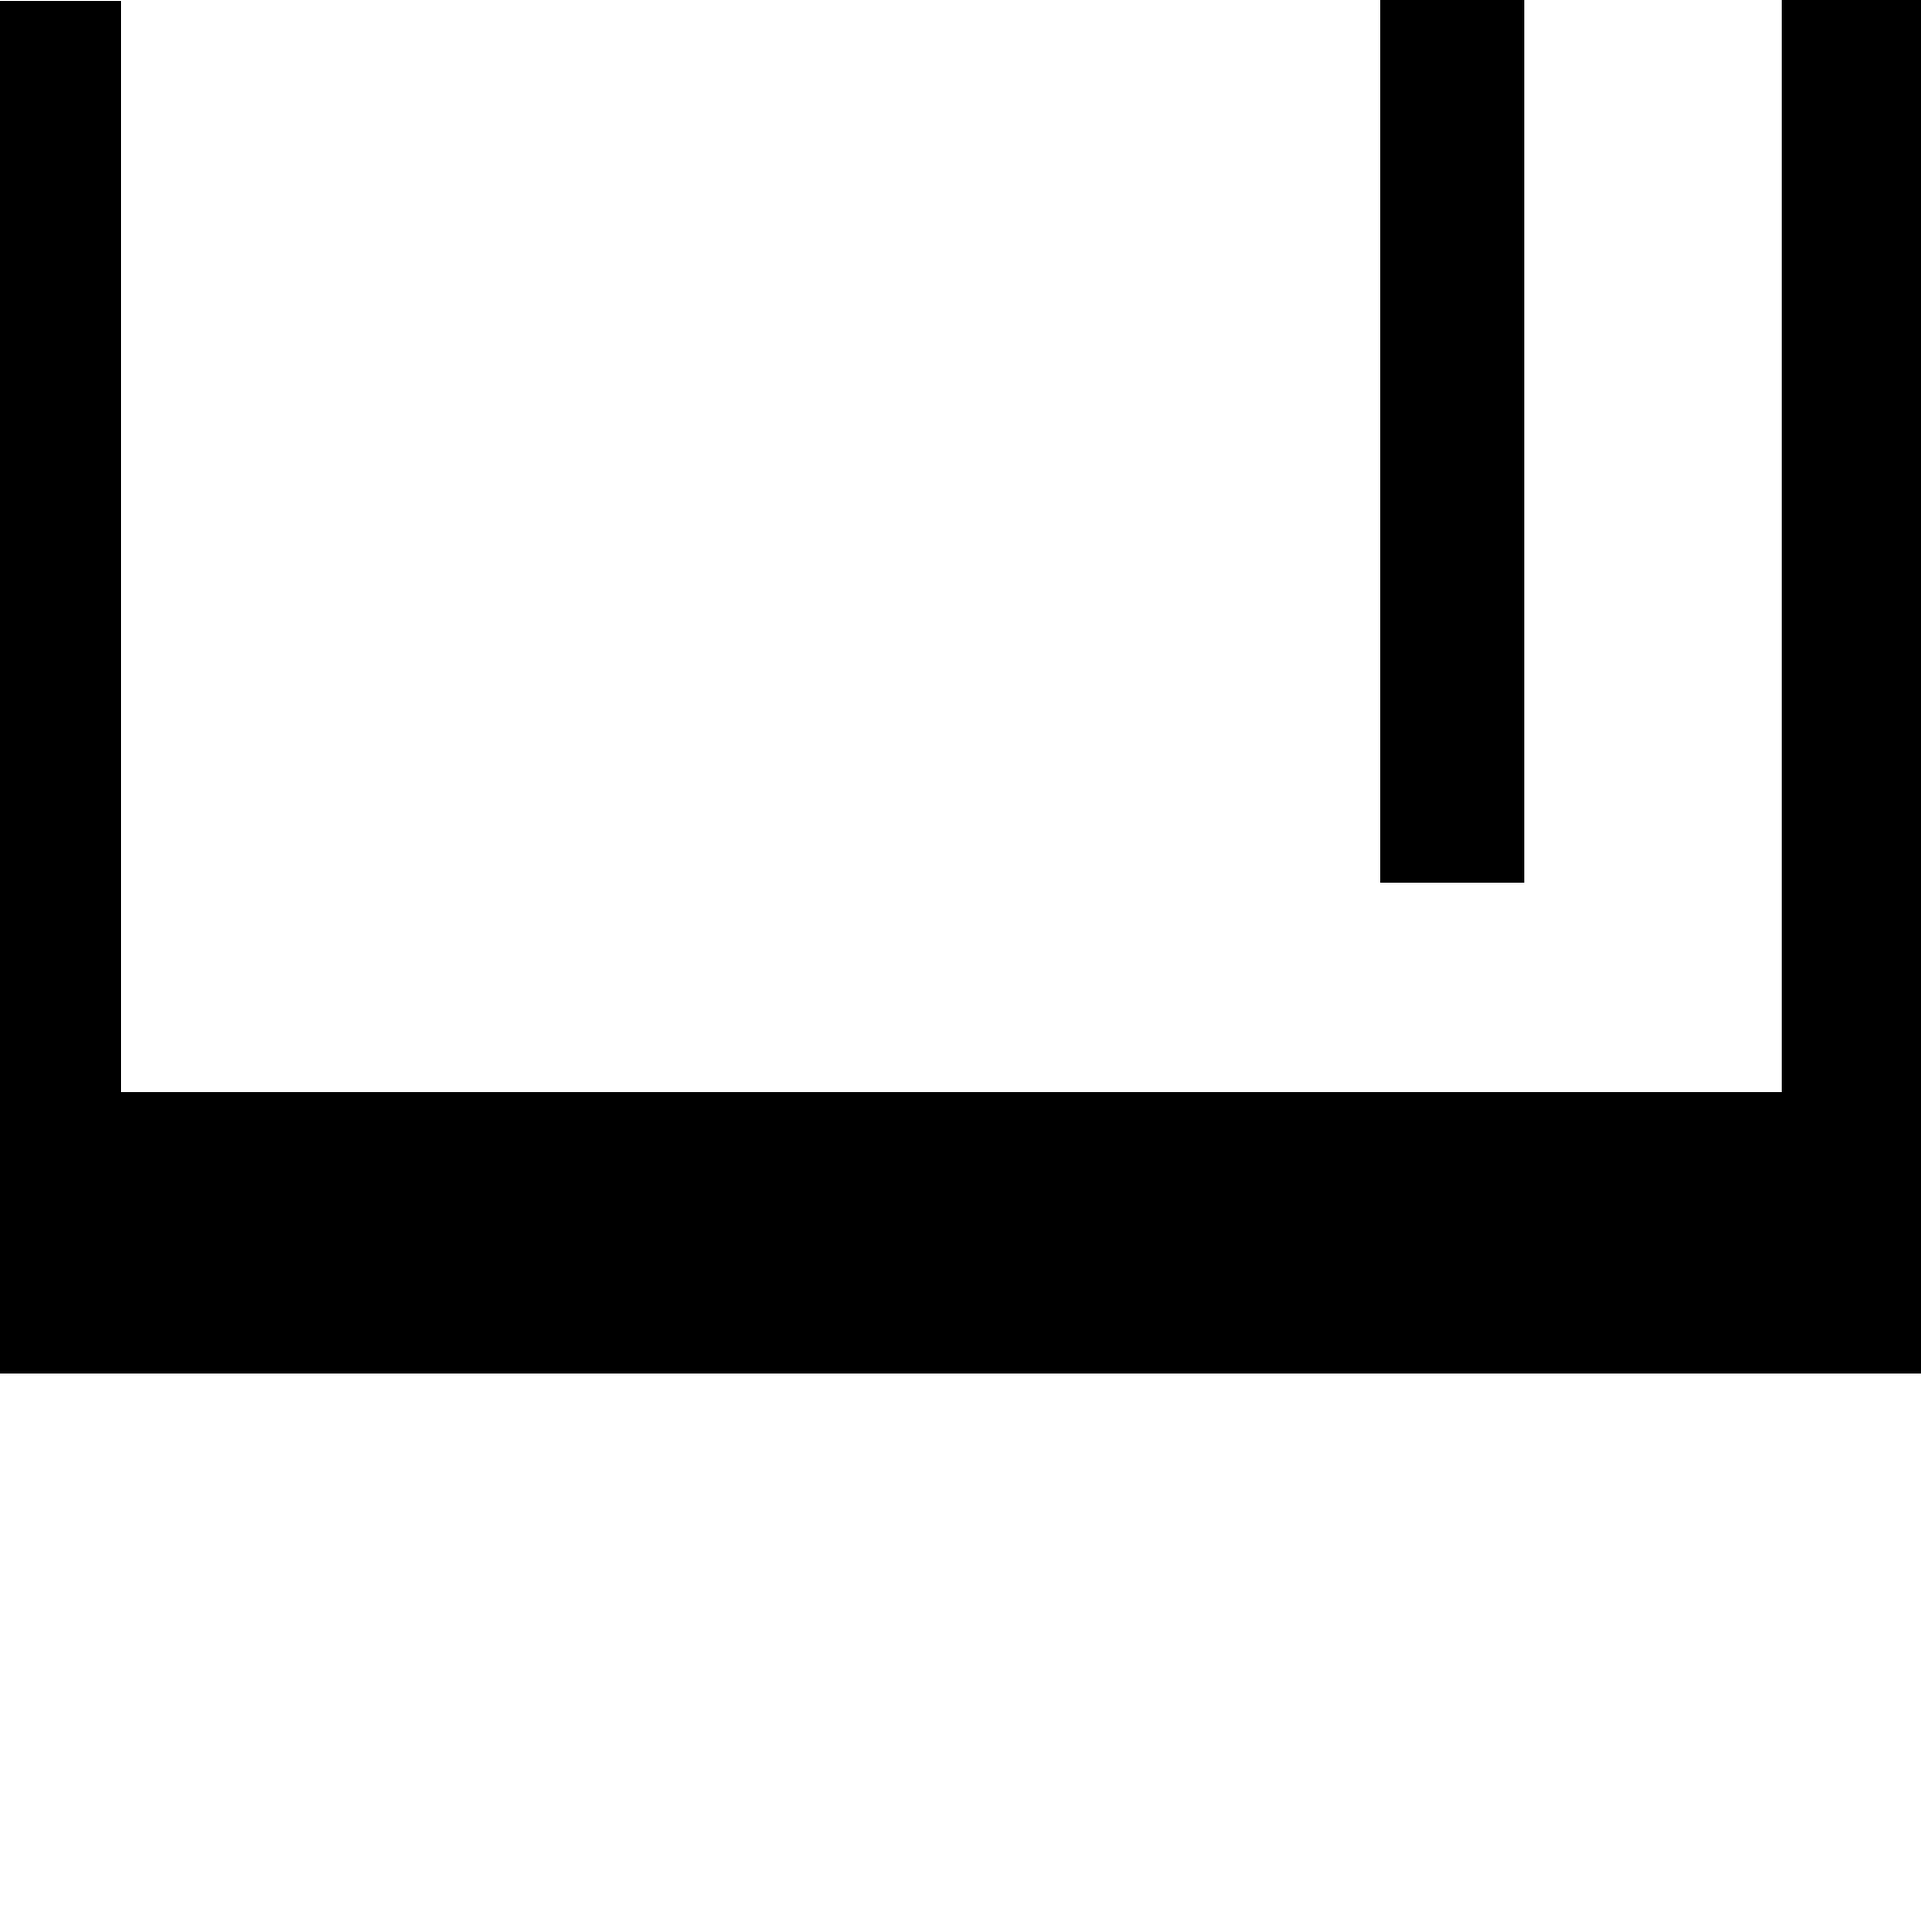
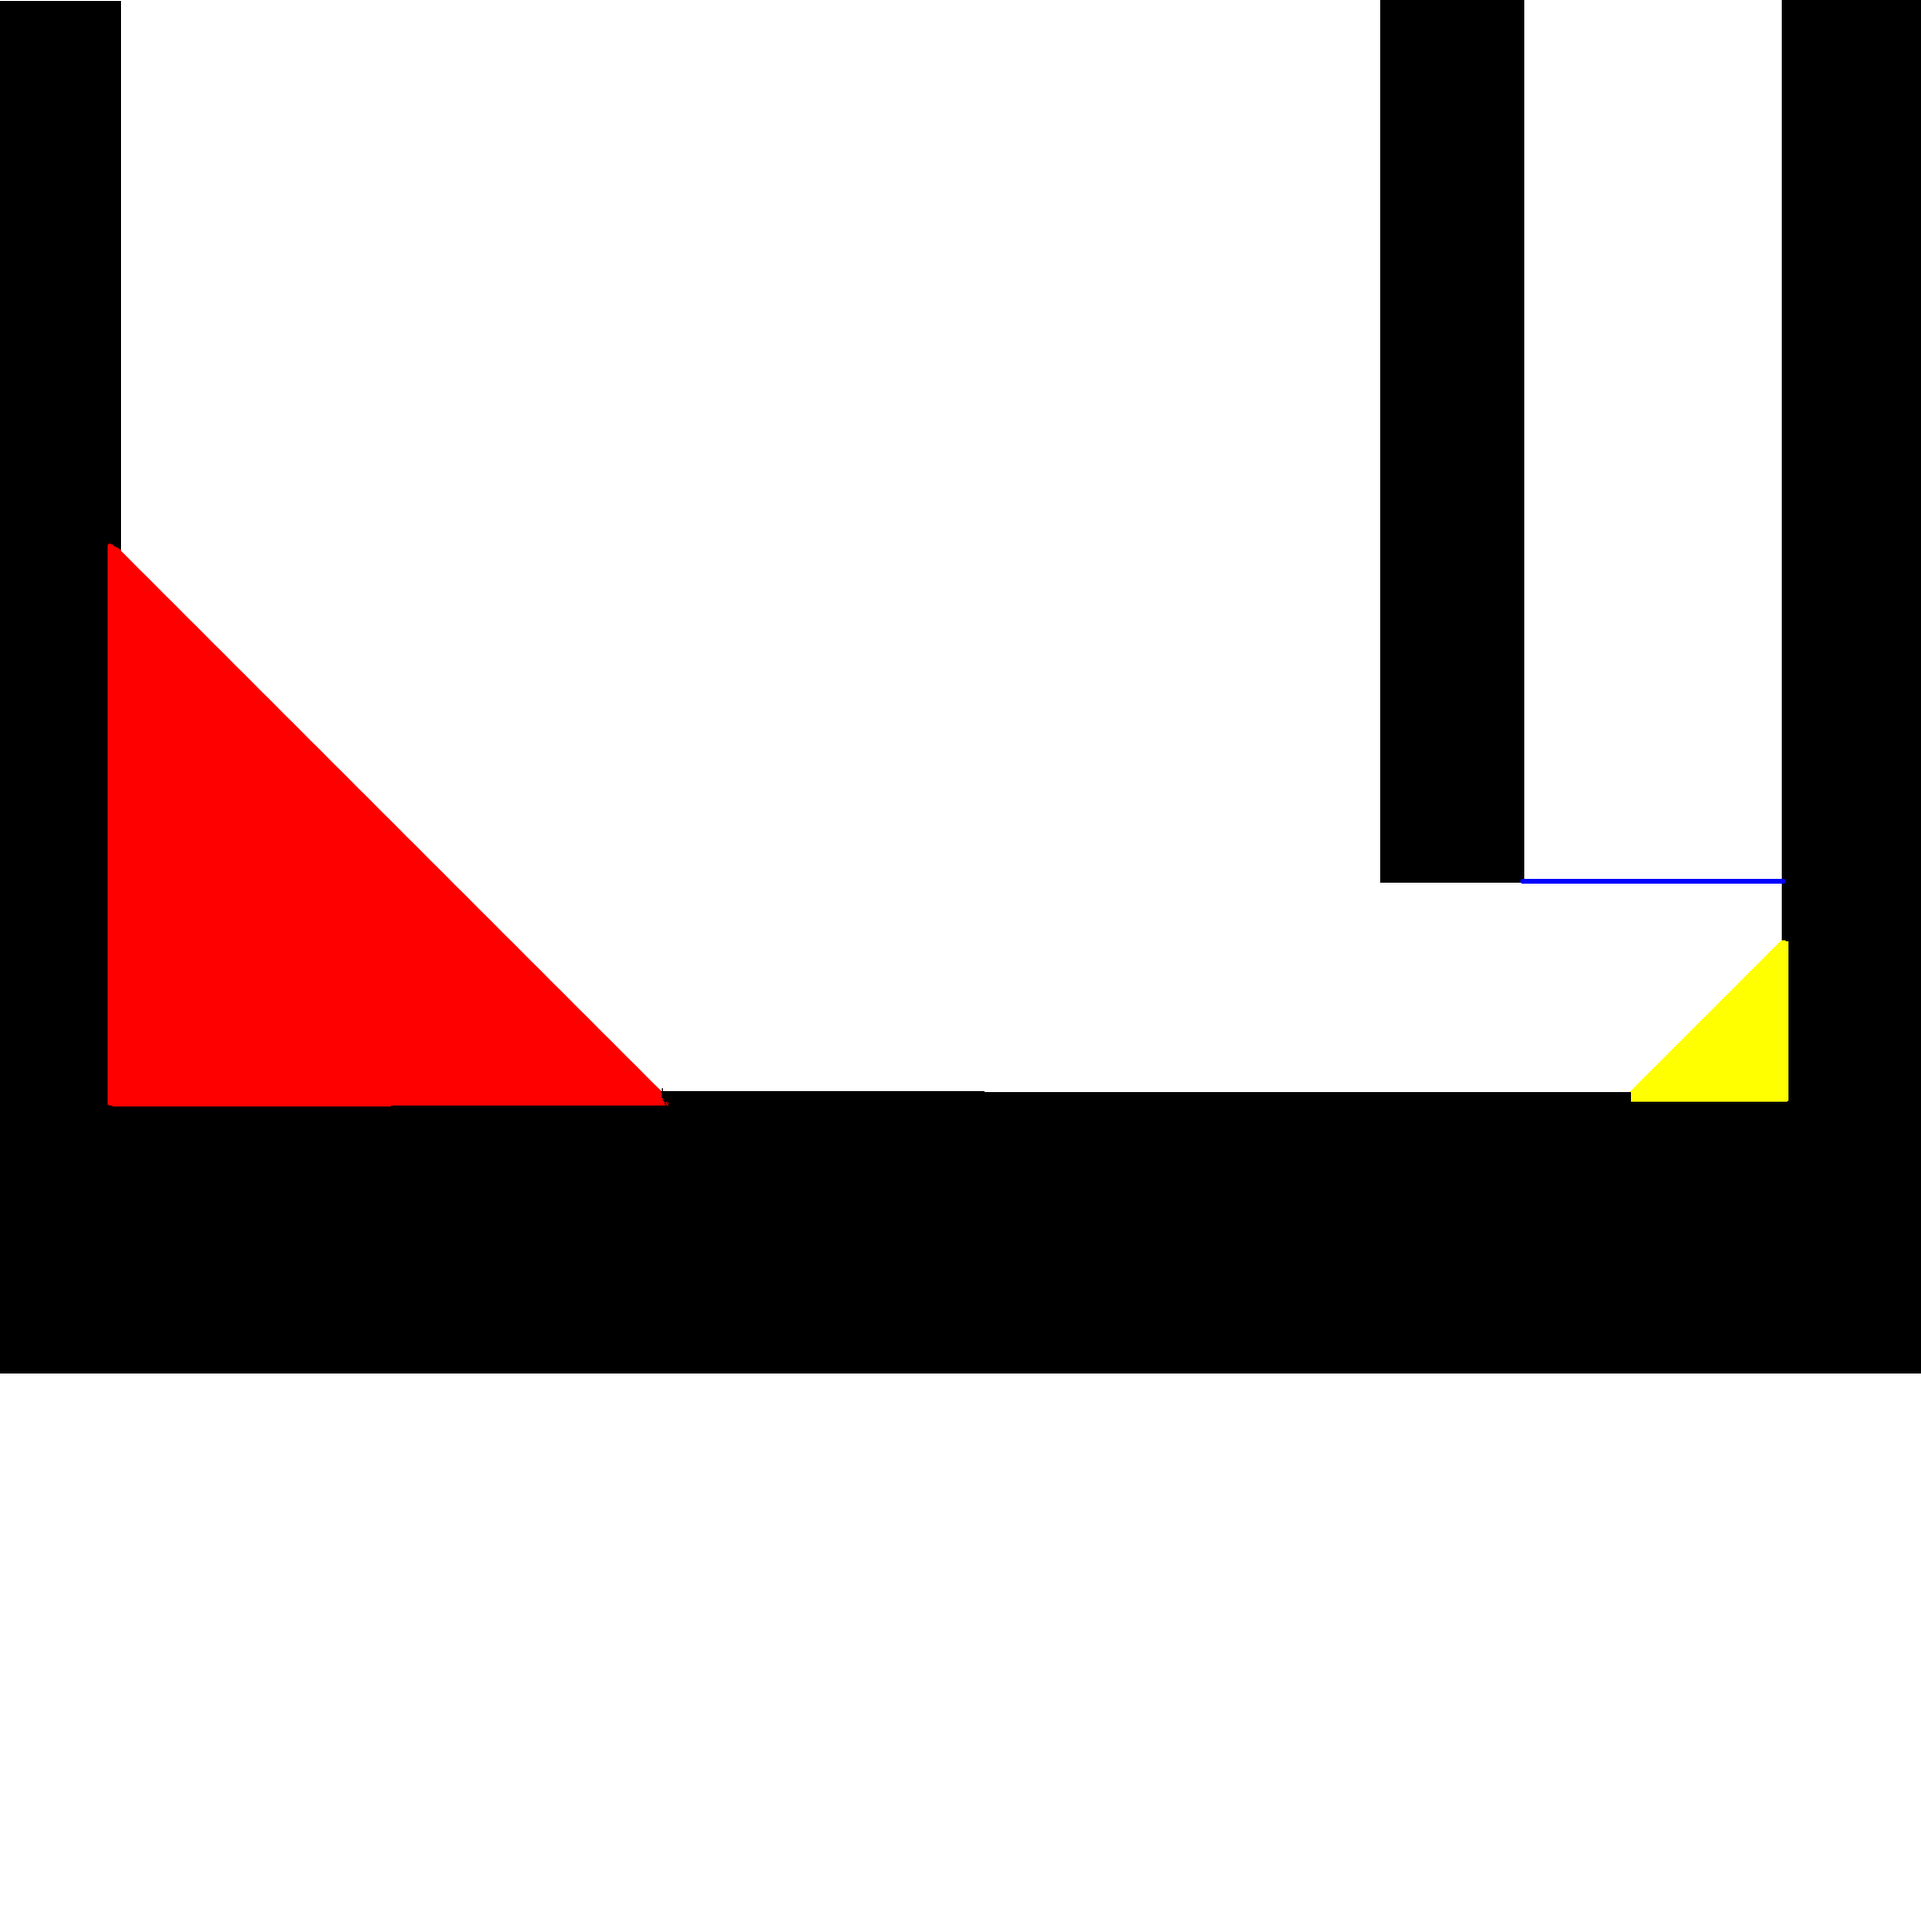
계단 중간커밋

Changed region(s): [[0.031, 0.279, 0.341, 0.589], [0.837, 0.496, 0.93, 0.589]]

diff --git a/KatanaZero/KatanaZero/Player.h b/KatanaZero/KatanaZero/Player.h
@@ -62,6 +62,8 @@ private:
 	void WallSlideStart();
 	void FlipStart();
 
+	void FallEnd();
+
 	void GravityCheck(float _DeltaTime);
 	void GroundUp();
 	bool LandCheck();
@@ -95,13 +97,15 @@ private:
 	float RollSpeed = 300.0f;
 	FVector AttackDir = FVector::Zero;
 	float AttackSpeed = 800.f;
-	float AttackBreakAccel = 2200.f;
-	float AttackBreakStartTime = 0.1f;
+	float AttackBreakAccel = 2000.f;
+	float AttackBreakStartTime = 0.05f;
 	float AccAttack = 0.f;
 
 	FVector Gravity = FVector(0.f, -500.f, 0.f);
 
-	bool IsColDown = false;
+	bool OnLeftUpStep = false;
+	bool OnRightUpStep = false;
+	bool OnProjectionWall = false;
 
 	float4 BottomCheckPos = FVector::Zero;
 	float4 RightCheckPos = FVector::Zero;
